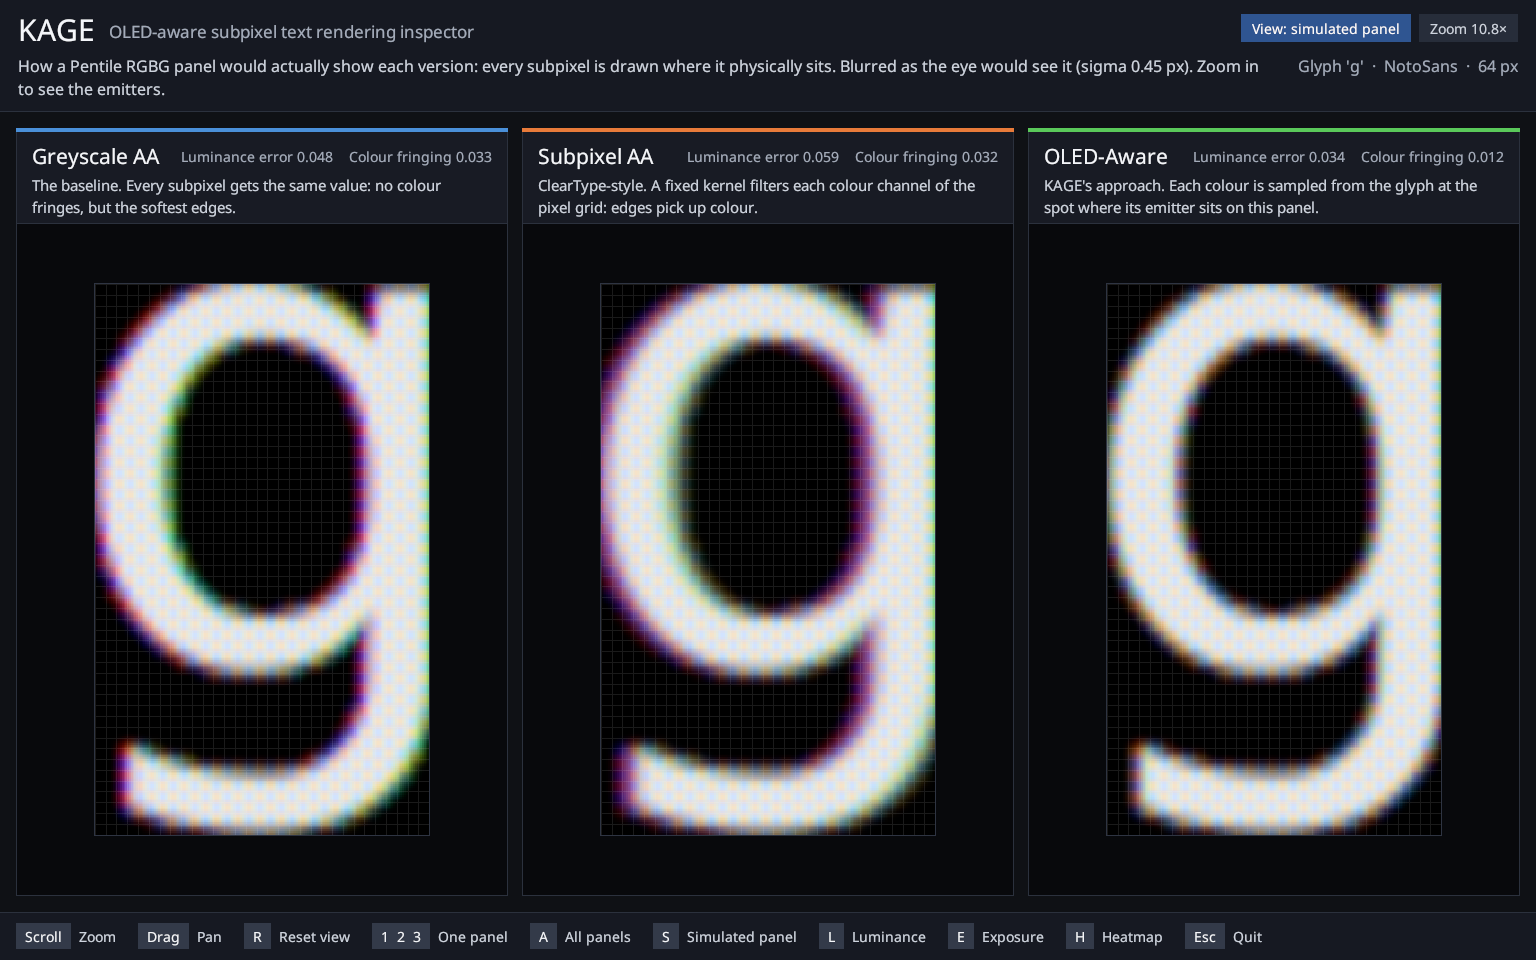
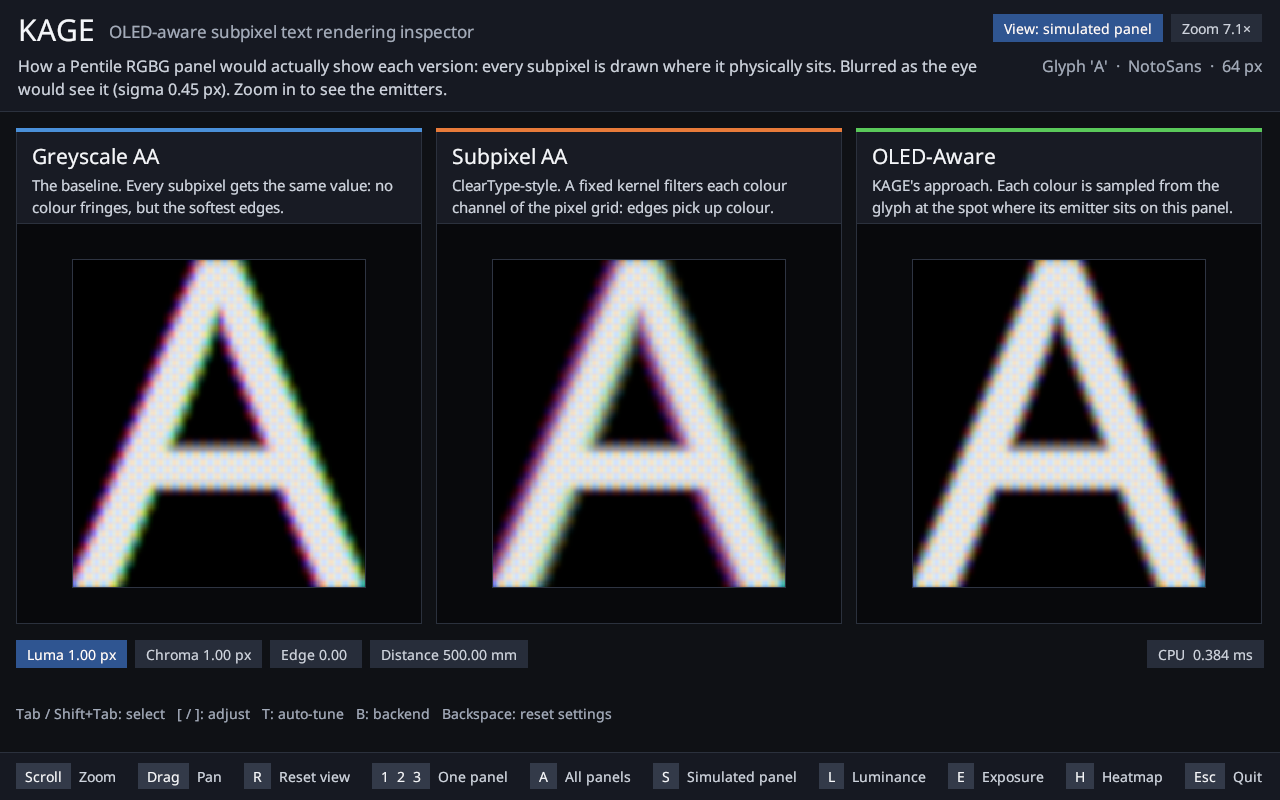
docs: complete Phase 4 guide with screenshots and measured verification

diff --git a/src/lib.rs b/src/lib.rs
@@ -39,8 +39,11 @@
 //! ```
 //!
 //! [`pipeline::Pipeline`] runs that chain and computes the metrics.
+//! [`gpu`] optionally replaces the CPU rendering stage with shared GLSL
+//! fragment (OpenGL) or compute (Vulkan) shaders, falling back to CPU on error.
+//! The inspector attaches a pipeline for live settings and backend switching.
 //!
-//! ## Status — Phases 1 to 3 complete
+//! ## Status — Phases 1 to 4 complete
 //!
 //! - `profile`   — display EOTF, white point, DPI
 //! - `layout`    — subpixel layouts, fixed filter kernels (stripe, Pentile,
@@ -55,7 +58,8 @@
 //! - `simulate`  — physical subpixel geometry (built-in or from `.toml`),
 //!   optical PSF blur, per-channel bleed, luminance reconstruction, metrics
 //! - `pipeline`  — glyph → renderers → simulation → metrics, auto-tuning
-//! - `viz`       — zoomable subpixel inspector (minifb) with raw / simulated views
+//! - `gpu`       — lazy OpenGL / Vulkan backends returning linear grids
+//! - `viz`       — zoomable inspector with live tuning and headless snapshots
 
 pub mod coverage;
 pub mod font;

diff --git a/README.md b/README.md
@@ -38,7 +38,7 @@ This project explores a third path: **display-aware perceptual text reconstructi
 
 ## Current Status
 
-**Phases 1 to 3 are complete.** The rendering sandbox, the zoomable inspector, the display simulator and the OLED-aware renderer (each colour sampled at its emitter, from supersampled coverage) are implemented and tested. Phase 4 (GPU backends, live tuning) is specified in [`phase4.md`](phase4.md).
+**Phases 1 to 4 are complete.** The rendering sandbox, the zoomable inspector, the display simulator and the OLED-aware renderer (each colour sampled at its emitter, from supersampled coverage) are implemented and tested. OpenGL and Vulkan backends compute the same grids, and the inspector supports live tuning with automatic CPU fallback.
 
 | Phase | Status | Description |
 |-------|--------|-------------|
@@ -46,7 +46,7 @@ This project explores a third path: **display-aware perceptual text reconstructi
 | **Phase 1.5** | ✅ Complete | Pipeline refactor — renderers return linear light |
 | **Phase 2** | ✅ Complete | Physical subpixel geometry, optical PSF blur, per-channel bleed, luminance reconstruction |
 | **Phase 3** | ✅ Complete | Emitter-position sampling on every layout, supersampled coverage, CSF-based metric and auto-tuning, panel files |
-| **Phase 4** | 🔲 Next | GPU acceleration (OpenGL, Vulkan), live tuning UI — see [`phase4.md`](phase4.md) |
+| **Phase 4** | ✅ Complete | OpenGL / Vulkan backends, CPU fallback, live tuning UI |
 
 ---
 
@@ -93,6 +93,28 @@ cargo run --release -- \
 # Available layouts: rgb | bgr | pentile | delta | wrgb | grey
 # On Ubuntu, a good test font: /usr/share/fonts/truetype/dejavu/DejaVuSans.ttf
 # On macOS:                     /Library/Fonts/Arial.ttf
+```
+
+### GPU backends
+
+```bash
+cargo run --release -- --backend opengl
+cargo run --release -- --backend vulkan --start-simulated
+cargo run --release --no-default-features -- --backend cpu
+```
+
+CPU is the default. Cargo features `opengl` and `vulkan` are both enabled by default; `--no-default-features` builds without GPU libraries. EGL and Vulkan drivers are loaded at runtime. A missing driver, disabled feature or rendering failure falls back to CPU with a warning; the tuning bar shows the backend actually used and the error. Failed initialisation is remembered.
+
+OpenGL renders a full-target triangle into an RGBA32F texture through an off-screen EGL context. Vulkan dispatches an 8×8 compute shader over host-visible buffers. Both share the GLSL kernels and emitter sampling in `shaders/common.glsl`; neither presents the window. Simulation and auto-tuning stay on the CPU.
+
+The reported render time includes all three modes and readback, excluding backend creation. Drivers can still defer work until the first draw, so the first run can be slower. The tuning bar reports the latest run. For repeatable warm timings, run `cargo run --release --example pipeline_timing -- /path/to/font.ttf` (optional second argument: simulation scale).
+
+The four settings are luma and chroma footprint (0.25–3 px, step 0.05), edge suppression (0–1, step 0.05), and viewing distance (200–1500 mm, step 25). Select with Tab and adjust with brackets. Backend switching and edits keep the current zoom and view. Auto-tuning requires simulation and may take longer than an individual adjustment.
+
+Snapshots include the bar and need no display server:
+
+```bash
+cargo run --release -- --backend vulkan --snapshot /tmp/kage.ppm
 ```
 
 ### The display simulation
@@ -181,6 +203,11 @@ These are simulator results on nominal geometry, not measurements of real panels
 | `L` | Toggle luminance-only view |
 | `E` | Simulated view: auto-exposure ↔ clip |
 | `H` | Toggle per-channel heatmap overlay |
+| `Tab` / `Shift+Tab` | Select next / previous tuning setting |
+| `[` / `]` | Decrease / increase selected setting (repeats while held) |
+| `T` | Auto-tune OLED-aware parameters using the CPU simulator |
+| `B` | Cycle CPU → OpenGL → Vulkan |
+| `Backspace` | Reset settings and backend to their starting values |
 | `Esc` | Quit |
 
 The window has a normal title bar, so it can be maximised, tiled or closed like any other. On Wayland desktops KAGE opens through XWayland to get one, because the windowing library draws no title bar of its own on compositors such as GNOME; set `KAGE_BACKEND=wayland` to use the native backend instead.
@@ -199,6 +226,7 @@ font::loader::FontFace
       ▼
 coverage::Coverage          lo: 1 sample / pixel     hi: N×N samples / pixel   (linear area coverage)
       │
+      │     CPU renderers below, or gpu::{opengl, vulkan} with shared GLSL
       ├──▶ render::grayscale    lo copied to R, G, B              ──┐
       ├──▶ render::subpixel_aa  lo through a fixed 3×3 kernel     ──┤──▶ SubpixelGrid (linear light, 1 RGB / pixel)
       └──▶ render::oled_aware   hi averaged over a footprint      ──┘         │
@@ -254,6 +282,7 @@ At the default viewing conditions the sweep found one-pixel footprints for all c
 | `PanelGeometry` | `src/simulate/panel.rs` | Unit cell of emitters: position, aperture, colour |
 | `PanelDescription` | `src/simulate/panel_file.rs` | A panel loaded from `.toml` |
 | `SimulationParams` | `src/simulate/mod.rs` | PSF sigma and per-channel bleed |
+| `Backend` / `Gpu` / `RenderJob` | `src/gpu/mod.rs` | Backend selection, lazy drivers and shared shader inputs |
 | `Pipeline` / `Tuning` | `src/pipeline.rs` | Glyph → renderers → simulation → metrics; auto-tune |
 | `ViewSet` | `src/viz/inspector.rs` | The three modes' grids at one pipeline stage |
 | `Inspector` | `src/viz/inspector.rs` | minifb window, zoom/pan/heatmap/simulate |
@@ -319,11 +348,14 @@ All renderers return **linear-light** grids and fall back to greyscale on HiDPI 
 
 **Blur.** Sigma is in logical pixels. It comes from `--psf-sigma`, or from a fixed angular PSF at the eye: `sigma_px = (fwhm_rad × distance / pitch) / 2.355`. Because the PSF is an angle, sigma in pixels grows with viewing distance and with pixel density. The simulated image has the glyph bitmap's extent; blur that would land outside it is dropped.
 
+### `src/gpu/` — GPU backends
+`mod.rs` defines `Backend`, `RenderJob`, the std140 `ShaderParams` block and lazy `Gpu` initialisation. `opengl.rs` runs fragment shaders through dynamically loaded EGL; `vulkan.rs` compiles GLSL with naga and dispatches compute work through ash. `shaders.rs` assembles the shared files in `shaders/`. Both return linear `SubpixelGrid`s, with parity tests for every layout and mode.
+
 ### `src/pipeline.rs` — `Pipeline`
-Owns the glyph coverage, the panel and the profile; `run(&Tuning)` renders the three modes, simulates and scores them, caching what a settings change does not affect. `auto_tune()` is a coordinate descent over footprint widths and edge suppression that minimises luminance error plus visible chroma.
+Owns the glyph coverage, the panel and the profile; `run(&Tuning)` renders the three modes, simulates and scores them, caching what a settings change does not affect. All three modes run on the selected backend; errors recompute the whole run on CPU and are reported in `Output`. Baseline simulation caches retain CPU grids to avoid invalidation by insignificant GPU rounding. `auto_tune()` is a coordinate descent over footprint widths and edge suppression that minimises luminance error plus visible chroma.
 
 ### `src/viz/inspector.rs` — `Inspector`
-minifb window with a header, three titled panels and a key-hint footer; zoom (1–64×), pan, single-panel and side-by-side modes, a raw ↔ simulated toggle, a luminance-only view, and a false-colour heatmap overlay for channel imbalance analysis. It holds linear-light `ViewSet`s, re-encodes only when the view changes, and redraws only when something on screen changes.
+minifb window with a header, three titled panels, a tuning bar and a key-hint footer; zoom (1–64×), pan, single-panel and side-by-side modes, a raw ↔ simulated toggle, a luminance-only view, and a false-colour heatmap overlay for channel imbalance analysis. `attach_pipeline()` enables live settings, auto-tuning and backend switching. `--snapshot` uses the same drawing code without opening a window. It holds linear-light `ViewSet`s, re-encodes only when the view changes, and redraws only when something on screen changes.
 
 ### `src/viz/text.rs` — `TextRenderer`
 Draws the inspector's own interface text: glyphs rasterized through `FontFace`, cached per size and blended in linear light. Uses the system default font. At zoom ≥ 8× a pixel grid is drawn over the zoomed output. The label strip uses colour-coded accent bars (blue = greyscale, orange = subpixel AA, green = OLED-aware).
@@ -368,13 +400,12 @@ Draws the inspector's own interface text: glyphs rasterized through `FontFace`, 
 - [x] Fringe suppression for RGB/BGR stripe — same emitter-sampling path as every other layout
 - [x] Per-panel geometry and bleed loaded from `.toml` — `--panel`, `layouts/` (the loader is done; the shipped files are nominal, no measured panel data exists yet)
 
-### Phase 4 — GPU Acceleration 🔲
-Specified in [`phase4.md`](phase4.md).
-- [ ] OpenGL rendering backend
-- [ ] GLSL fragment shader implementations of all three render modes
-- [ ] Vulkan compute shader backend
-- [ ] Interactive real-time parameter tuning UI
-- [ ] `src/gpu/` module
+### Phase 4 — GPU Acceleration ✅
+- [x] OpenGL rendering backend
+- [x] GLSL fragment shader implementations of all three render modes
+- [x] Vulkan compute shader backend
+- [x] Interactive real-time parameter tuning UI
+- [x] `src/gpu/` module
 
 ---
 
@@ -384,11 +415,11 @@ Specified in [`phase4.md`](phase4.md).
 |-----------|------------|
 | Language | Rust (edition 2021) |
 | Font loading & rasterization | `freetype` crate (FreeType 2) |
-| Windowing / framebuffer | `minifb` (software, no GPU) |
+| Windowing / framebuffer | `minifb` software presentation |
 | CLI | `clap` v4 (derive API) |
 | Panel files | `toml` + `serde` |
 | Rendering — Phases 1–3 | CPU software renderer |
-| Rendering — Phase 4 | OpenGL fragment shader, Vulkan compute shader |
+| Rendering — Phase 4 | `glow` + dynamic `khronos-egl`; `ash` + `naga` GLSL → SPIR-V |
 
 ---
 
@@ -404,6 +435,7 @@ kage/
 │   ├── coverage.rs                # Coverage — pixel + supersampled glyph coverage
 │   ├── pipeline.rs                # Pipeline — render, simulate, score, auto-tune
 │   ├── profile.rs                 # DisplayProfile — EOTF, white point, DPI
+│   ├── gpu/                       # Lazy backends, shared parameters, OpenGL and Vulkan
 │   ├── font/
 │   │   ├── mod.rs                 # Re-exports FontFace
 │   │   └── loader.rs              # FreeType loader, scaled rasterization
@@ -432,16 +464,18 @@ kage/
 │   └── viz/
 │       ├── mod.rs                 # Re-exports Inspector, ViewSet
 │       ├── inspector.rs           # minifb window: header, panels, zoom, pan, raw/simulated views
+│       ├── tuning.rs              # Live setting ranges, steps and accessors
 │       └── text.rs                # Text drawing for the inspector's interface
+├── shaders/                       # Shared GLSL, fragment and compute wrappers
+├── examples/                      # Reproducible pipeline timing harness
 ├── layouts/                       # Panel description files (.toml) and their format
 ├── docs/                          # Screenshots used in this README
 ├── Cargo.toml
 ├── devlog.md
-├── phase4.md                      # Specification for Phase 4
 └── README.md
 ```
 
-Planned but not yet present: `shaders/` and `src/gpu/` (Phase 4).
+
 
 ---
 

diff --git a/devlog.md b/devlog.md
@@ -684,3 +684,43 @@ A grid search over luma footprint 0.4–1.2, chroma footprint 0.5–2.5 and edge
 ### Phase 4
 
 Not started on `main`. `phase4.md` specifies it. The two GPU backends were prototyped and verified against the CPU renderers before the phase was put on hold; they are on the branch `phase4-gpu-backends`.
+
+## Session 15 — Phase 4: GPU backends and live tuning (2026-11-11)
+
+### Implementation
+
+Built on the two commits from `phase4-gpu-backends`, reviewing the shared shader arithmetic and resource lifecycle. OpenGL uses a float framebuffer in an off-screen EGL context; Vulkan compiles the shared GLSL with naga and dispatches compute work over mapped buffers. Added cleanup for partial OpenGL initialisation and stopped Vulkan reuse after a failed submission. GPU features remain optional and initialisation failures are cached.
+
+`Pipeline::run` now renders all three modes on the selected backend, excludes backend creation from its timer, and recomputes the complete run on CPU after a GPU error. Output records the actual backend, device, elapsed rendering time and optional error. Baseline simulation caches remain based on CPU grids; GPU rounding is immaterial to their metrics. Auto-tuning remains on CPU.
+
+The inspector attaches the pipeline and offers four adjustable settings, Tab / Shift+Tab selection, repeating bracket adjustments, T auto-tune, B backend cycling and Backspace reset to starting settings (including backend). A revision counter triggers redraw after changes. The tuning bar shows values, backend, render time and fallback errors. Snapshot mode now uses the same drawing code without opening a window, at a deterministic 1280×800. Both README screenshots were regenerated and visually inspected.
+
+The Phase 4 specification was deleted before the first implementation commit, as requested.
+
+### Measurements
+
+Machine: AMD Ryzen AI 7 350 with Radeon 860M host CPU; accessible GPU drivers were **llvmpipe (LLVM 23.1.2, 256 bits)**, OpenGL 4.6 / Vulkan 1.4. These are software-driver timings, not measurements of the Radeon hardware. Release build, DejaVu Sans `A` at 64 px, Pentile RGBG, 109 DPI, 500 mm, 4× coverage supersampling, 6× simulation. The harness warms each pipeline, averages 20 alternating footprint updates and 10 alternating viewing-distance updates. Times vary with system load.
+
+| Backend | Three-mode render | Footprint update, including simulation and metrics | Distance update, including cache rebuild |
+|---------|------------------|--------------------------------------------------|-----------------------------------------|
+| CPU | 0.416 ms | 6.056 ms | 20.157 ms |
+| OpenGL / llvmpipe | 0.731 ms | 6.483 ms | 21.586 ms |
+| Vulkan / llvmpipe | 0.259 ms | 5.648 ms | 19.864 ms |
+
+Reproduce with `cargo run --release --example pipeline_timing -- /usr/share/fonts/dejavu-sans-fonts/DejaVuSans.ttf`. An optional second argument sets simulation scale. These update timings exclude inspector encoding and framebuffer drawing. Backend creation is excluded; first draws can still contain deferred driver compilation.
+
+At 8× simulation, the initial CPU footprint / distance update took 16.238 / 57.772 ms. Moving PSF convolution to contiguous per-channel rows reduced those to 13.106 / 49.638 ms in the same harness. Vertical taps operate across rows, preserving accumulation order. Tests compare the optimised convolution against the retained scalar reference, including unequal channel kernels, both border modes, narrow images and empty images.
+
+### Verification
+
+- `cargo test`: 188 unit tests passed; one pre-existing documentation example remains ignored.
+- `cargo test --no-default-features`: 185 unit tests passed; no GPU driver needed.
+- OpenGL and Vulkan parity tests executed on llvmpipe: all six layouts, all three modes, supersampling 1 and 4, default and non-default parameters. Largest measured channel difference from CPU: zero.
+- Pipeline metric parity checked across all layouts; CPU fallback checked with disabled features and a deliberately invalid Vulkan driver path.
+- CLI CPU / OpenGL / Vulkan printed identical metric tables for the default 64 px glyph. Raw and simulated snapshot panel regions were pixel-identical across the three backends. The tuning bar was excluded from pixel comparison because backend labels and measured times intentionally differ.
+- With `VK_ICD_FILENAMES=/nonexistent` and `__EGL_VENDOR_LIBRARY_FILENAMES=/nonexistent`, both parity tests skipped cleanly with an explanation. A Vulkan CLI run with the invalid driver path produced a CPU snapshot and an explicit warning.
+- Headless inspector tests check that attached-pipeline changes update metrics, simulation notes and frame revisions, preserve the simulated view, and retain the initial reset settings. Setting steps and clamps and tuning-bar layout are covered separately.
+
+### Not verified
+
+Vulkan validation layers are not installed (`/usr/share/vulkan/explicit_layer.d` is empty), so validation-layer execution was unavailable. Physical GPU execution, interactive keyboard handling, window-manager behaviour and perceived responsiveness have not been exercised here. Keyboard bindings need manual checking in the desktop inspector. Auto-tuning is synchronous and can take longer than a single setting adjustment; GPU acceleration does not accelerate simulation or auto-tuning.
